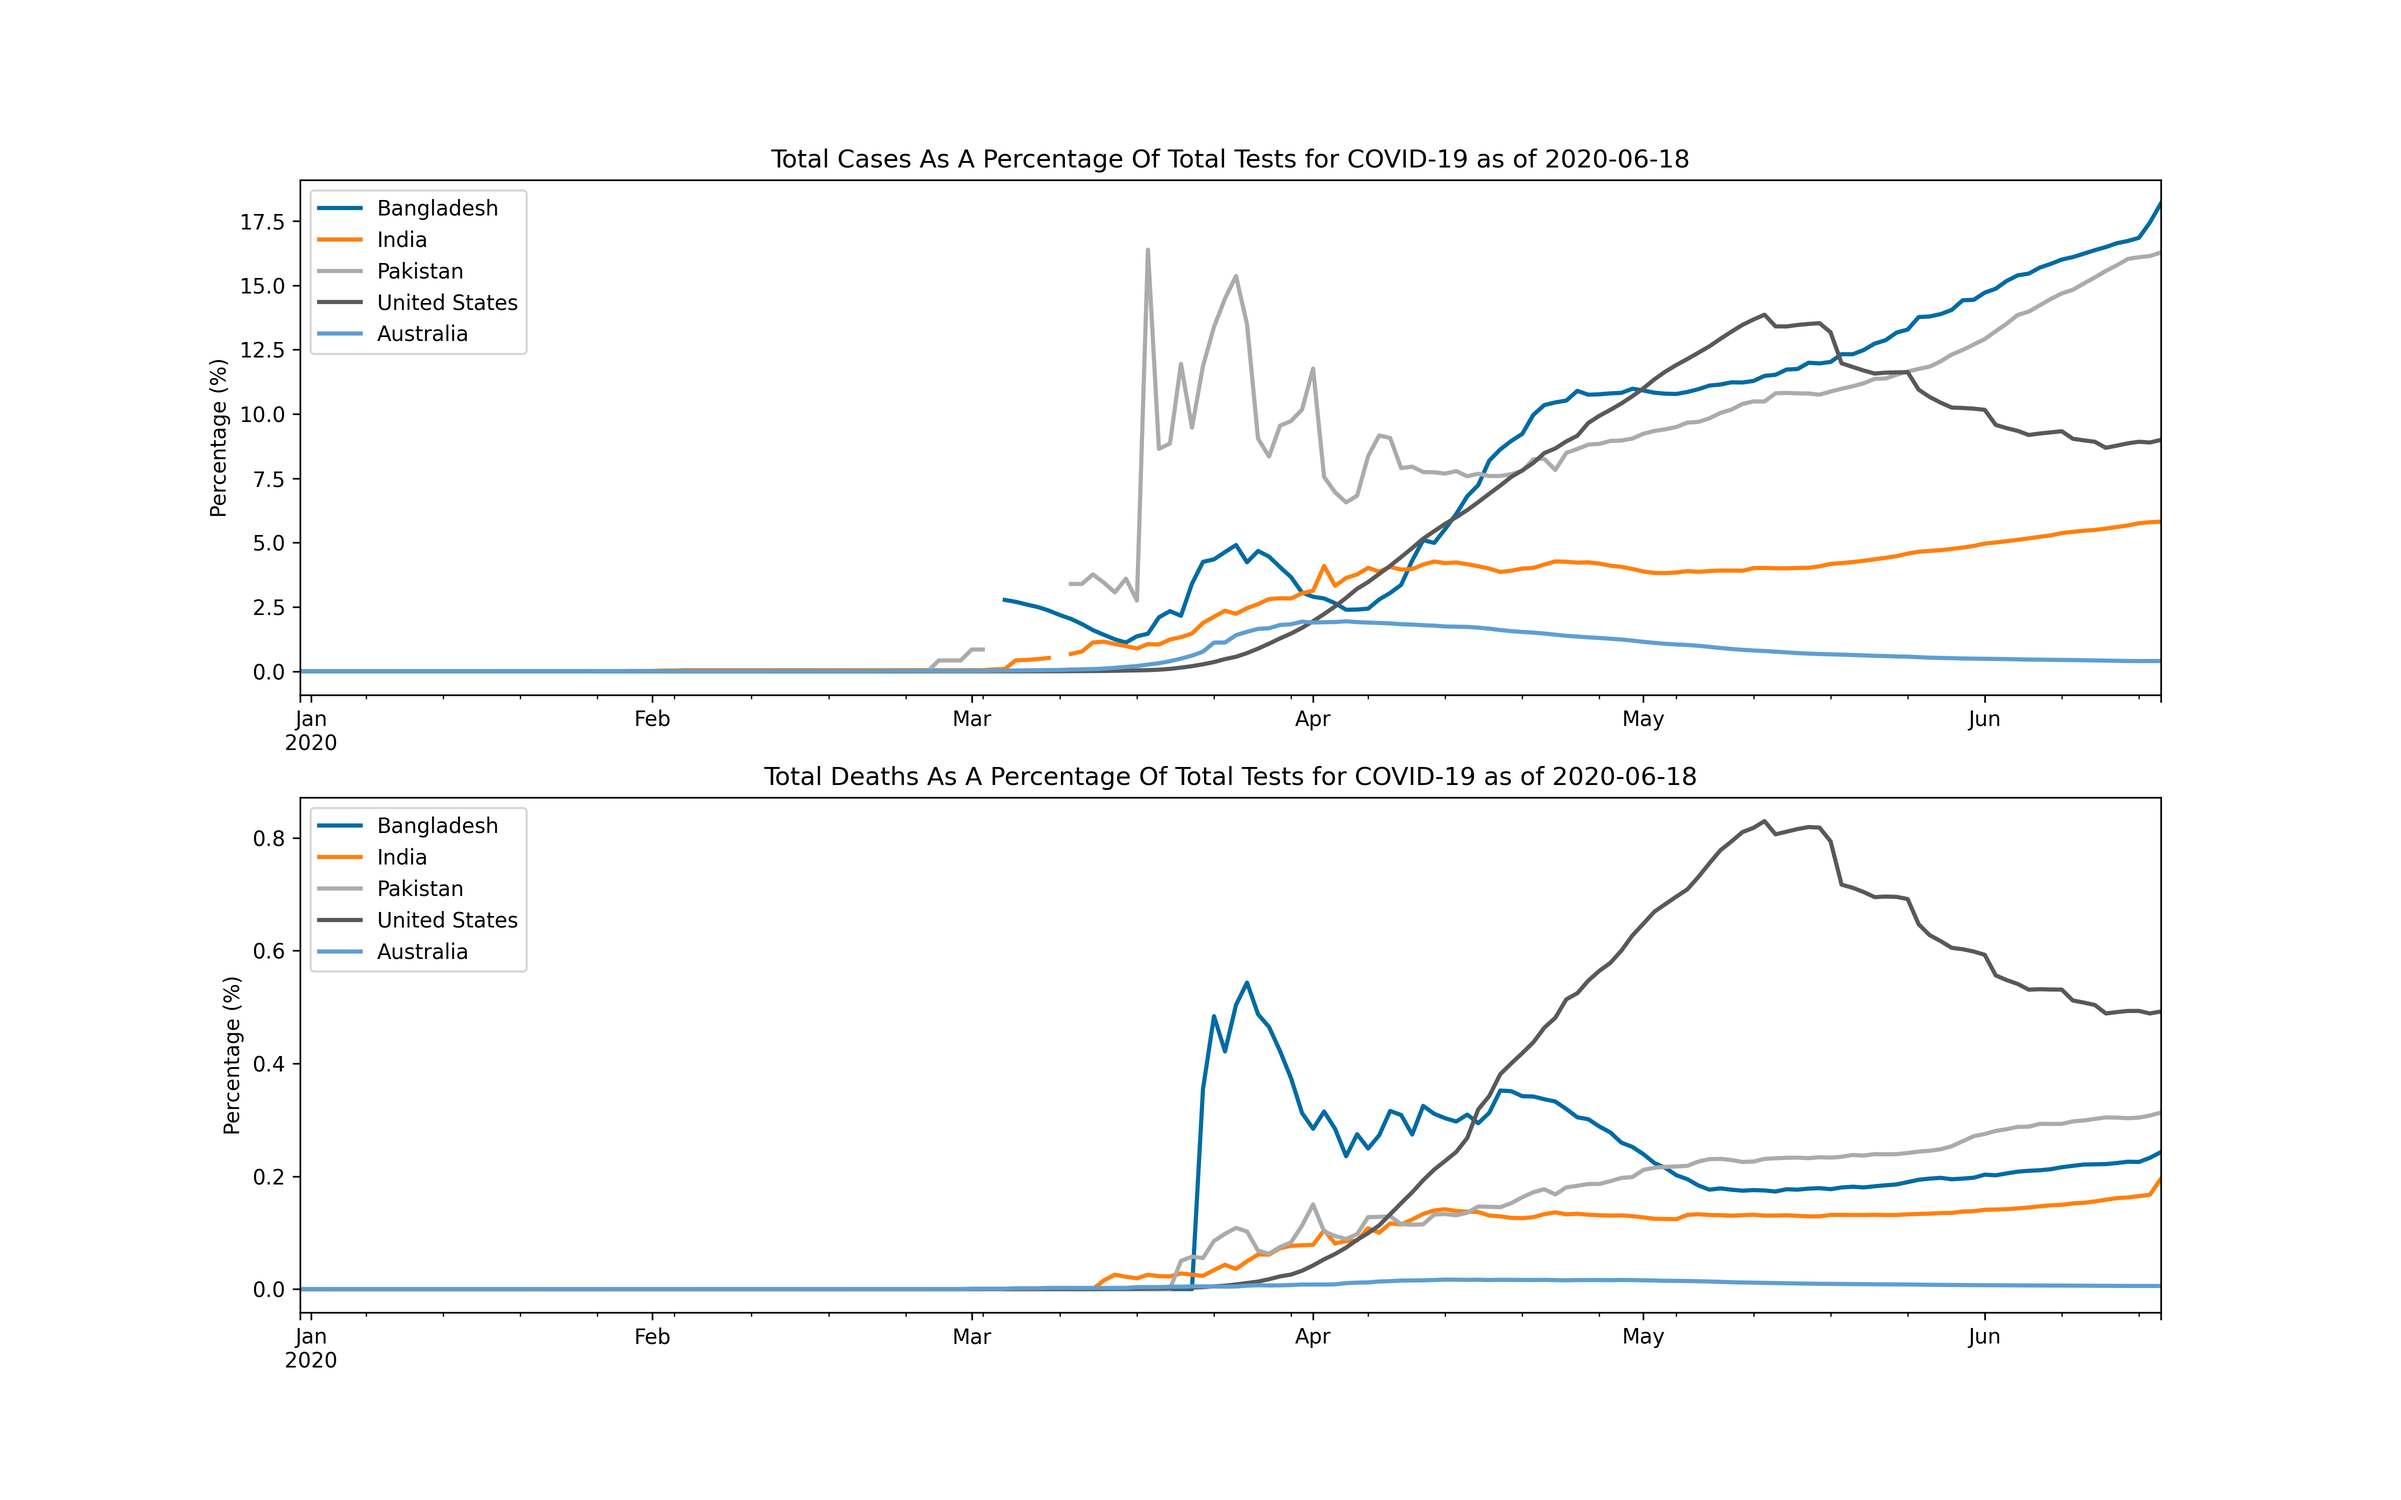
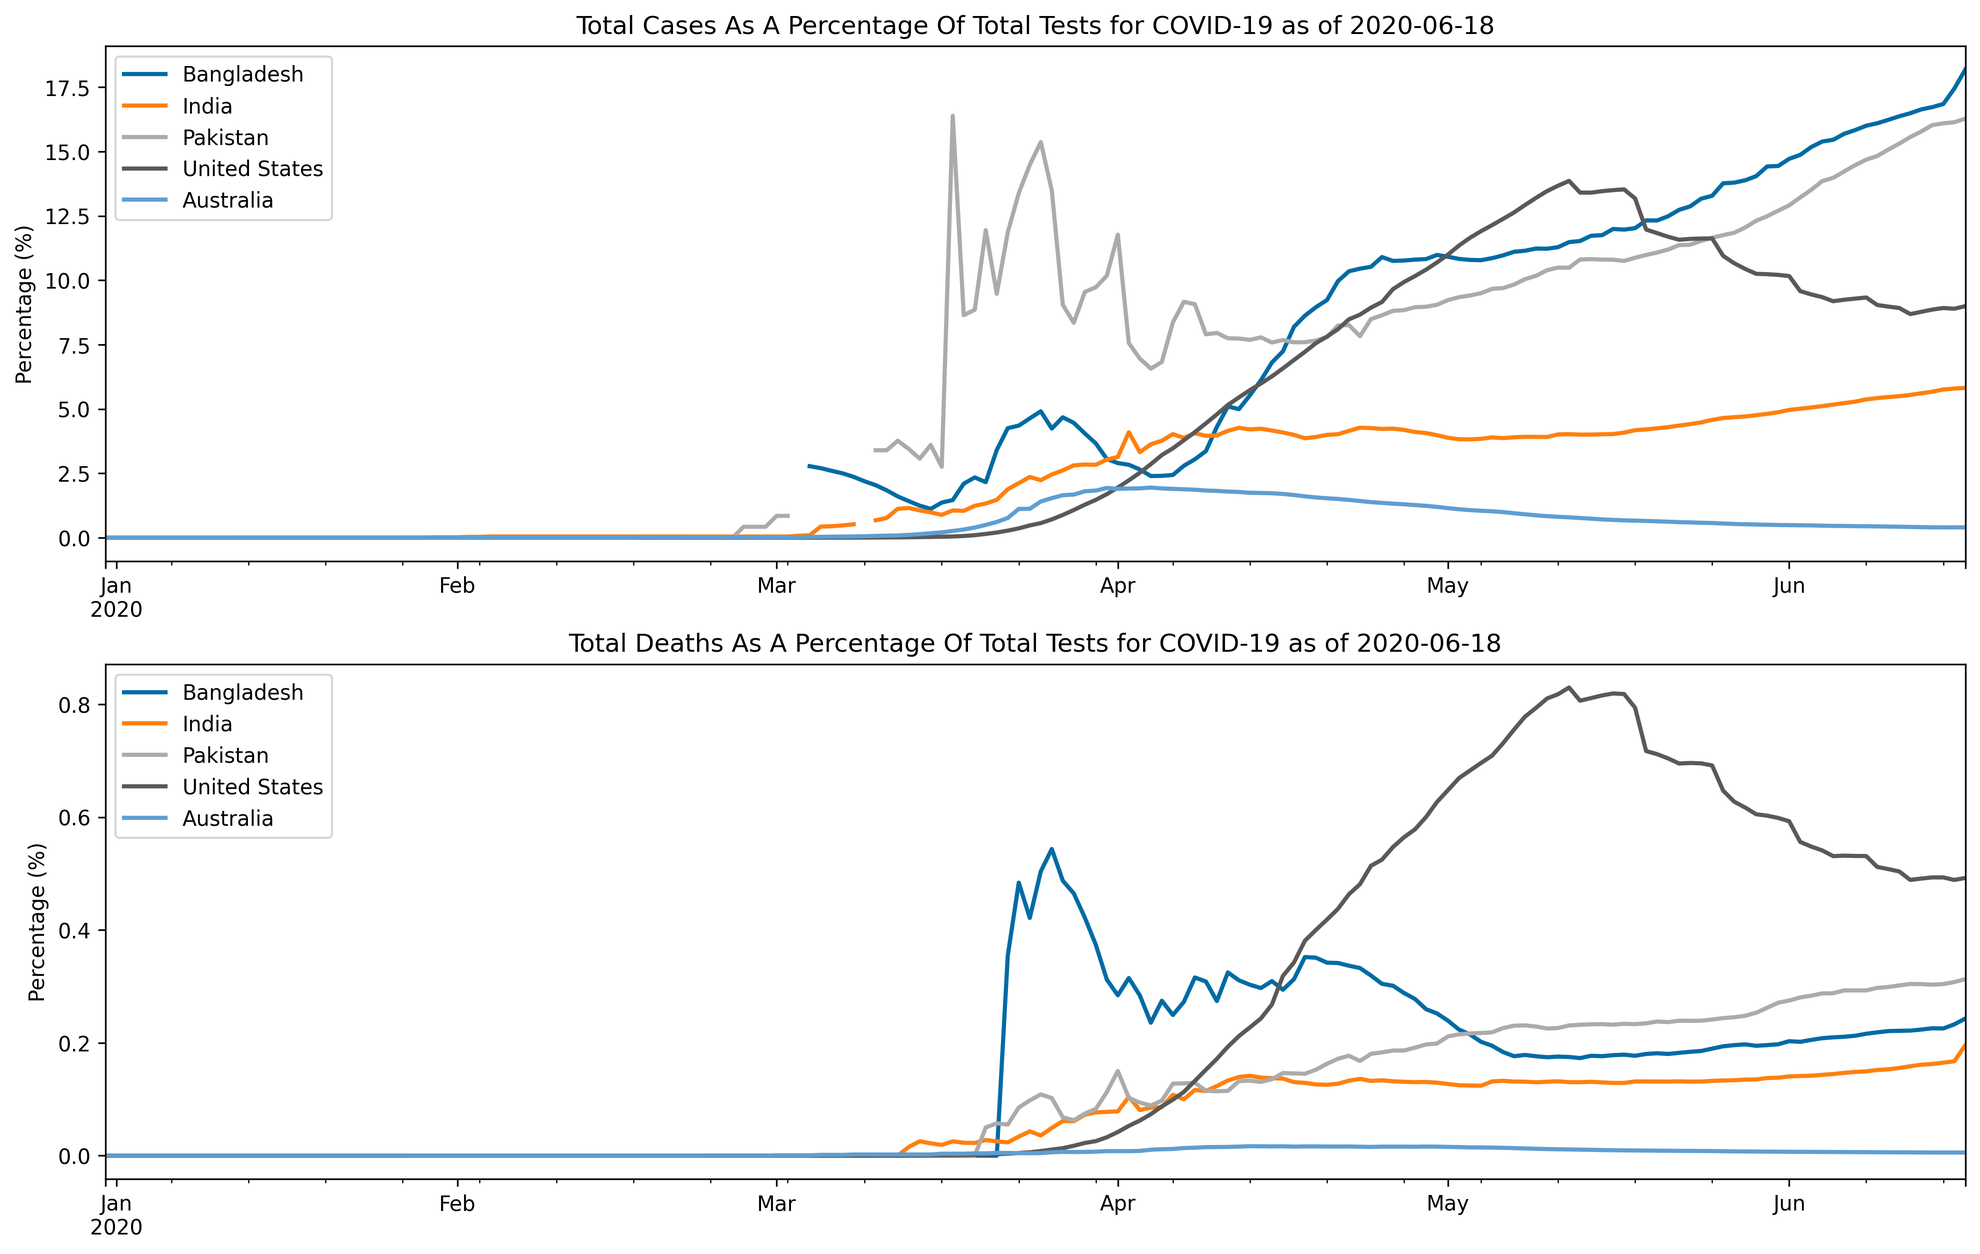
remove whitespace from plot boundary, fix minor errors in README

diff --git a/README.md b/README.md
@@ -1,18 +1,18 @@
 # Overview 
-This repository includes a Jupyter notebook <em>covid19-data-analysis.ipynb</em> that processes data related to COVID-19 and generates line plots for analysis, similar to the one down below
+This repository includes a Jupyter notebook <em>covid19-data-analysis.ipynb</em> that processes data related to COVID-19 and generates line plots for analysis, similar to the one down below.
 
 ![plot](../master/covid-analysis.png)
 
 # Usage Instructions
 1. Install [JupyterLab](https://jupyter.org/install).
 2. Install [virtualenv](https://virtualenv.pypa.io/en/latest/installation.html) (optional).
-3. Clone this repository using git-clone.
-4. Navigate to the directory of the repository using the command line 
-5. Run this command to install dependencies
+3. Clone this repository using <b>git-clone</b>.
+4. Navigate to the directory of the repository using the command line. 
+5. Run the command below to install dependencies.
     ```bash
     pip install -r requirements.txt
     ```
-6. Run this command to run <b>jupyterlab</b>
+6. Run the command below to start <b>Jupyterlab</b>.
     ```bash
     jupyter notebook
     ```
